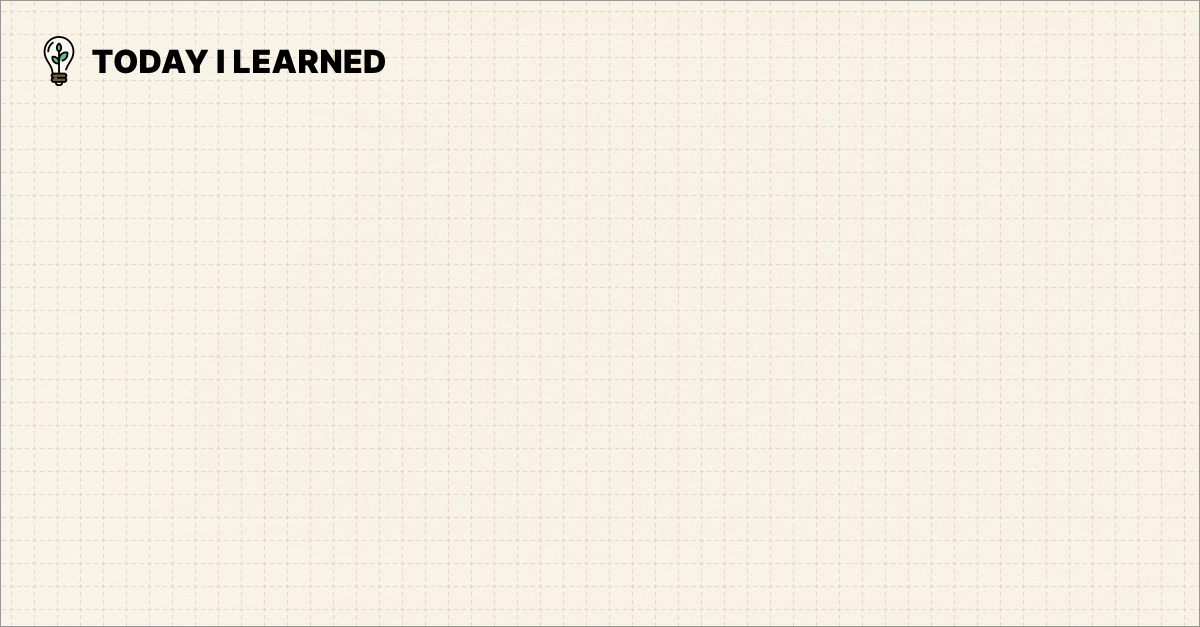
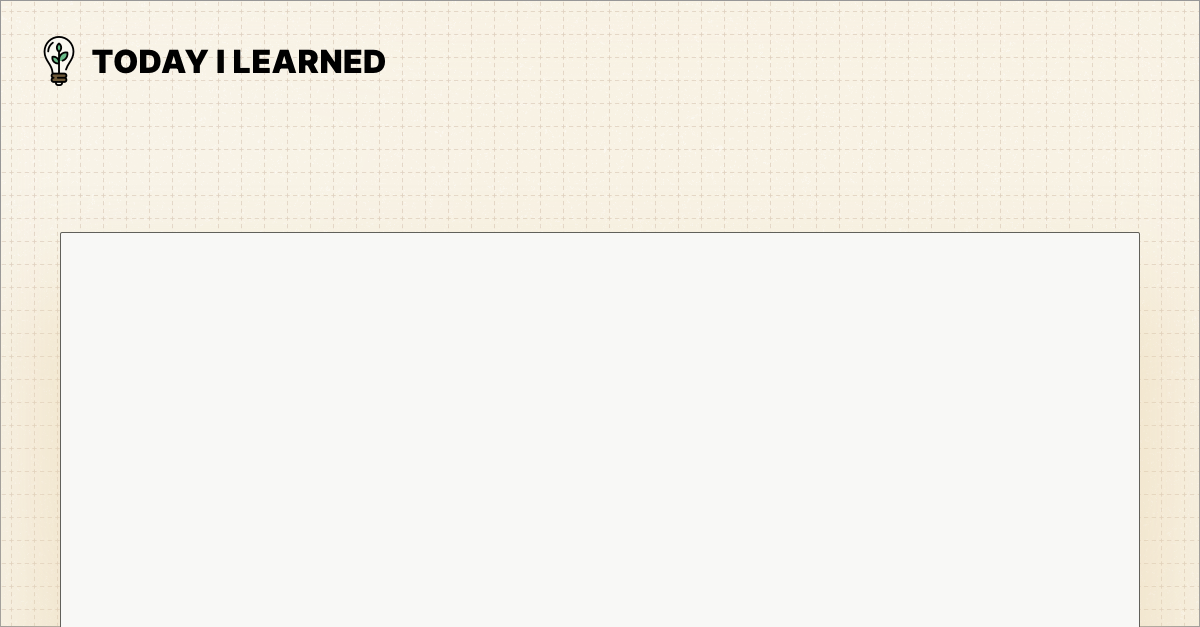
feat: Update OG template

diff --git a/src/routes/api/og/+server.ts b/src/routes/api/og/+server.ts
@@ -3,15 +3,15 @@ import { error } from '@sveltejs/kit';
 
 function template(title: string) {
 	return `
-	<div tw="flex w-full h-full items-end justify-start">
+	<div tw="flex w-full h-full items-center justify-start">
 		<img
 		tw="absolute top-0 left-0 right-0 bottom-0"
 		height=630
 		width=1200
-		src="https://placehold.co/1200x630.png"
+		src="https://b022bf5b.til-ahu.pages.dev/images/og-template.png"
 
 		/>
-		<h1 tw="text-6xl font-extrabold text-[#1d1d1b] text-left px-20 py-12">
+		<h1 tw="text-6xl font-extrabold text-[#1d1d1b] text-left pt-4 px-12 leading-tight">
 			${title}
 		</h1>
 	</div>
@@ -30,7 +30,7 @@ export async function GET({ url }) {
 		const renderedTemplate = template(title);
 
 		return await ImageResponse(renderedTemplate, {
-			height: 630,
+			height: 627,
 			width: 1200,
 			fonts: [
 				{
